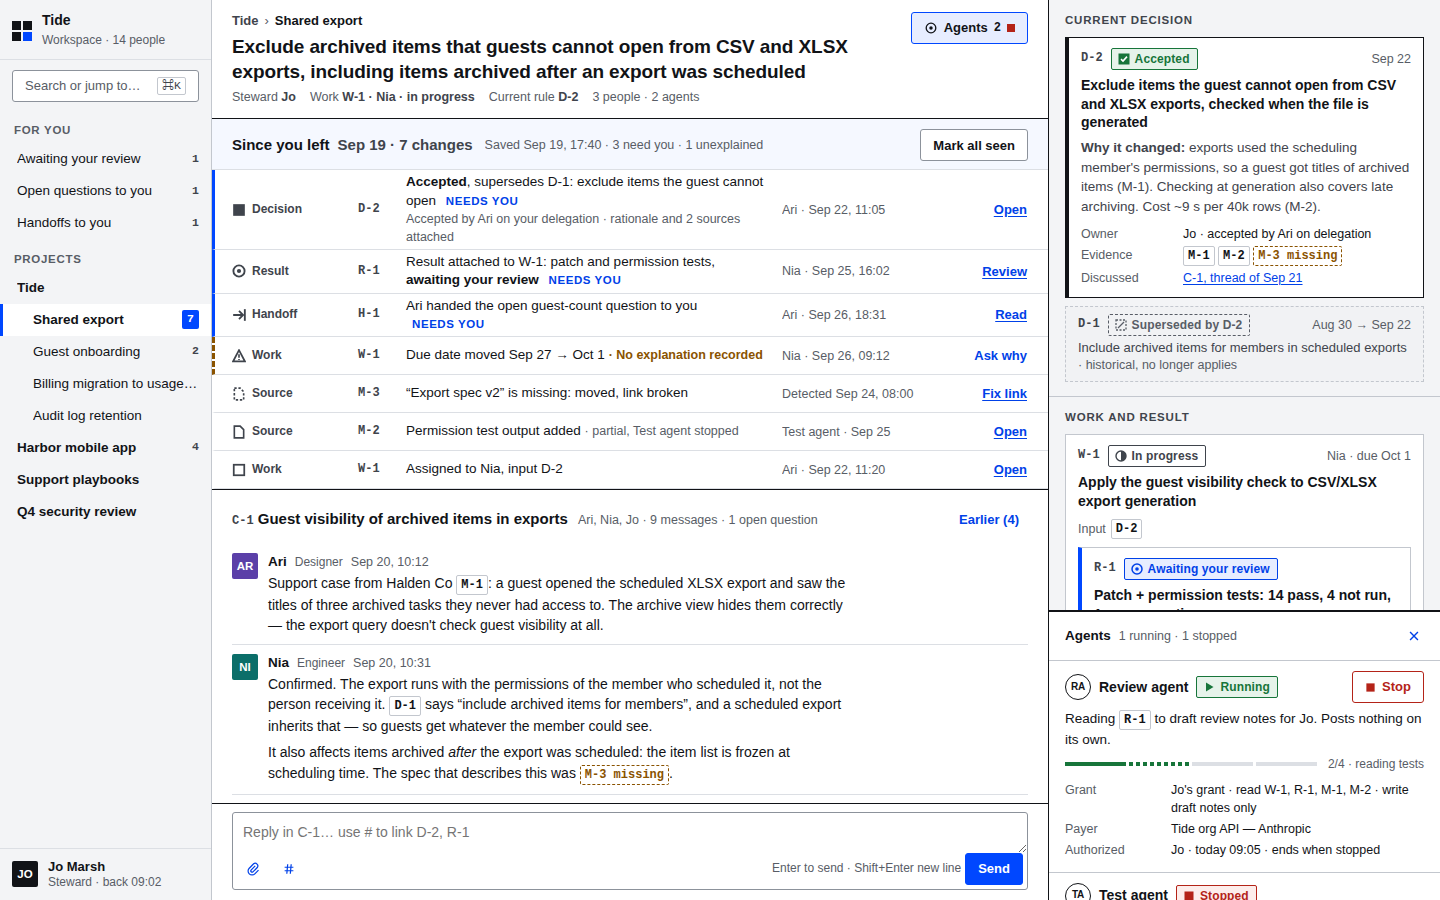
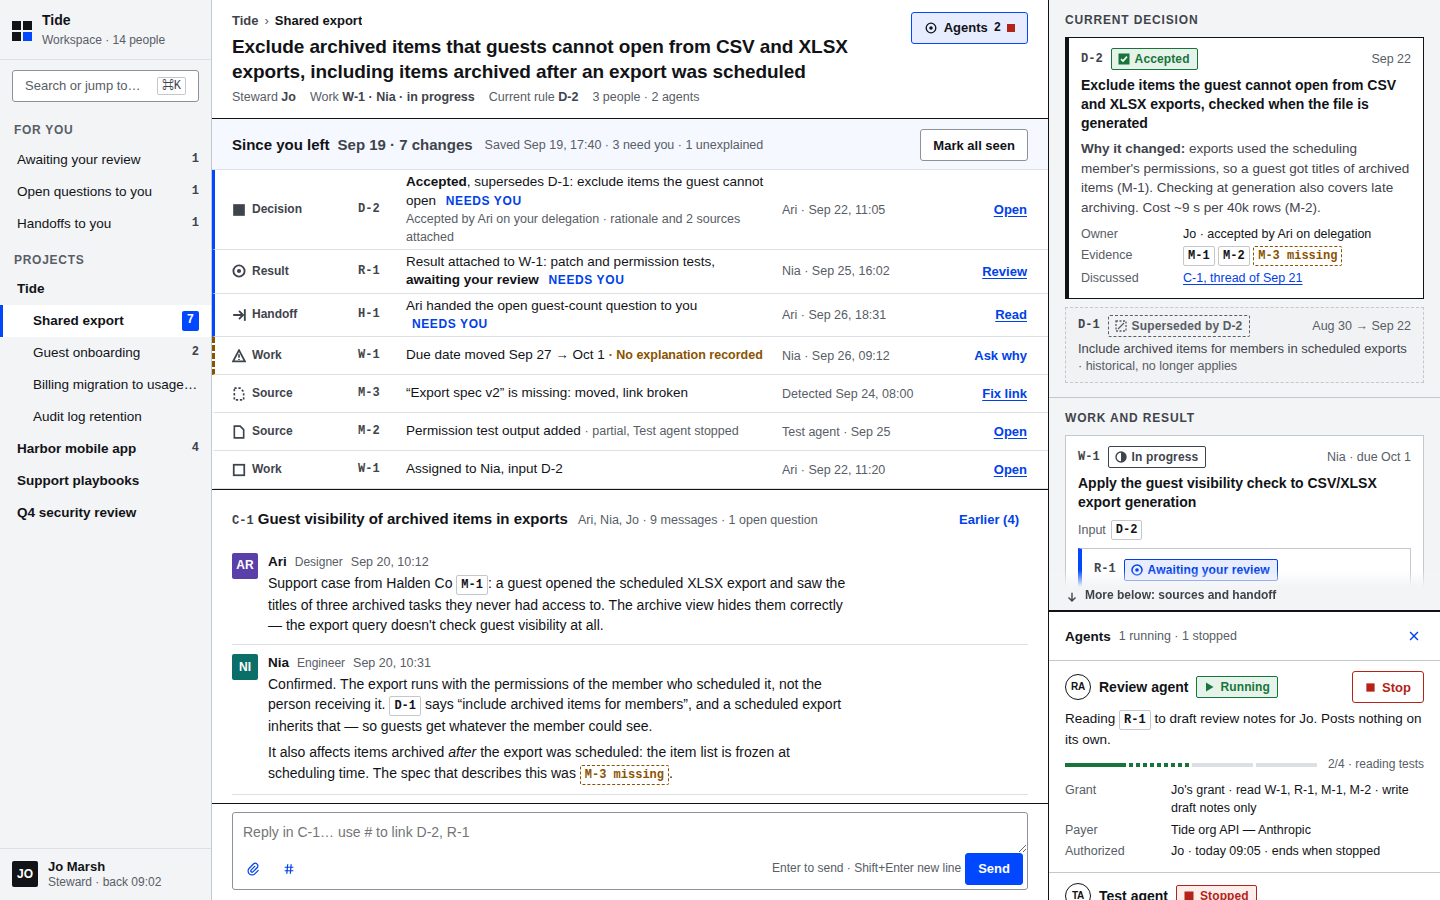
docs: compact O-003 agent panels, add context scroll cue and fix 360px wraps (#15)
Variant A: dock capped at 40% of the column, a sticky 'more below' cue on the
context column, a no-wrap breadcrumb and a short phone composer placeholder.
Variant B: compact agent rows with a grant disclosure; the panel starts closed
because each card already shows its agent state. Adds agents-open renders.

diff --git a/docs/design/proposals/o-003-ui-direction/variant-b-state-board.html b/docs/design/proposals/o-003-ui-direction/variant-b-state-board.html
@@ -389,6 +389,17 @@ svg.i { width: 14px; height: 14px; flex: none; vertical-align: -2px; fill: none;
 .arow .acts { display: flex; gap: 6px; flex-wrap: wrap; justify-content: flex-end; }
 .arow .nosw { margin: 2px 0 0 !important; font-size: 12.5px; font-weight: 600; display: flex; gap: 6px; align-items: center; }
 .arow.stopped { background: #FFF8F6; box-shadow: inset 4px 0 0 var(--status-danger); }
+/* Desktop and tablet: one compact row per agent; the full grant opens on demand so the board keeps its height. */
+.arow .gsum { margin: 0; font-size: 12.5px; color: var(--text-secondary); }
+.arow .gsum b { color: var(--text-primary); font-weight: 600; }
+@media (min-width: 901px) {
+  .arow { grid-template-columns: minmax(190px, .6fr) minmax(0, 1.5fr) minmax(0, 1.1fr) auto; padding-top: 5px; padding-bottom: 5px; }
+  .arow .what .on { display: inline; margin-left: 6px; }
+  .arow dl { display: none; grid-column: 2 / 4; grid-row: 2; margin-top: 2px; }
+  .arow.open dl { display: grid; }
+  .arow .acts { grid-column: 4; grid-row: 1; }
+}
+@media (max-width: 900px) { .arow .gsum, .arow .gtoggle { display: none; } }
 
 /* ---------- Detail pane ---------- */
 .detail { display: flex; flex-direction: column; min-width: 0; min-height: 0; background: var(--surface-raised); }
@@ -460,7 +471,8 @@ svg.i { width: 14px; height: 14px; flex: none; vertical-align: -2px; fill: none;
   .jump .lbl { display: none; }
   .arow { grid-template-columns: minmax(190px, .8fr) minmax(0, 1.4fr) auto; }
   .agents { max-height: 36%; }
-  .arow dl { grid-column: 2 / 3; }
+  .arow .gsum { grid-column: 2; }
+  .arow dl { grid-column: 2 / 3; grid-row: auto; }
   .arow .acts { grid-column: 3; grid-row: 1; }
   .arow .nosw { grid-column: 2 / 4; }
   .project .actions .btn:not(.btn-primary) .long { display: none; }
@@ -566,7 +578,7 @@ svg.i { width: 14px; height: 14px; flex: none; vertical-align: -2px; fill: none;
     </nav>
     <span class="spacer"></span>
     <button class="btn jump" type="button" aria-label="Jump to object or person (Command K)"><span class="lbl">Jump to object or person</span><kbd>⌘K</kbd></button>
-    <button class="btn agents-toggle" type="button" aria-expanded="true" aria-controls="agents">
+    <button class="btn agents-toggle" type="button" aria-expanded="false" aria-controls="agents">
       <span class="short" aria-hidden="true">Agents</span><span class="dot" aria-hidden="true"></span><span class="lbl">Agents · 1 running ·</span>
       <span class="sq" aria-hidden="true"></span><span class="lbl">1 stopped</span>
       <span class="sr-only">2 agents: 1 running, 1 stopped</span>
@@ -771,7 +783,7 @@ svg.i { width: 14px; height: 14px; flex: none; vertical-align: -2px; fill: none;
       </div>
 
       <!-- ================= AGENTS PANEL ================= -->
-      <section class="agents" id="agents" aria-labelledby="agents-title">
+      <section class="agents" id="agents" aria-labelledby="agents-title" hidden>
         <div class="agents-h">
           <h2 id="agents-title">Agents on this project</h2>
           <span class="meta">2 · every action is logged on the object it touches · nothing runs without a grant</span>
@@ -781,22 +793,24 @@ svg.i { width: 14px; height: 14px; flex: none; vertical-align: -2px; fill: none;
           <li class="arow">
             <div class="who"><span class="avatar bot" aria-hidden="true">RA</span><div><strong>Review agent</strong><span class="state-line"><span class="run-dot" aria-hidden="true" style="margin-top:0"></span>Running · 4 min</span></div></div>
             <div class="what">Reading sample XLSX (2 of 3 files), checking hidden rows against D-2. No edits, no posting in C-1.<span class="on">on <button class="link-chip" type="button" data-select="R-1">R-1</button> · started 09:10</span></div>
-            <dl>
+            <p class="gsum"><b>Jo's grant</b> · read-only, comments on R-1 · Tide org API</p>
+            <dl id="grant-ra">
               <dt>Grant</dt><dd>Read R-1, W-1, D-2, M-1, M-2 · comment on R-1 only</dd>
               <dt>Payer</dt><dd>Tide org API — Anthropic</dd>
               <dt>Authorized</dt><dd>by Jo · Sep 18, valid until Sep 30</dd>
             </dl>
-            <div class="acts"><button class="btn btn-sm btn-danger" type="button"><svg class="i" aria-hidden="true"><use href="#i-stop"/></svg>Stop</button></div>
+            <div class="acts"><button class="btn btn-sm gtoggle" type="button" aria-expanded="false" aria-controls="grant-ra">Grant</button><button class="btn btn-sm btn-danger" type="button"><svg class="i" aria-hidden="true"><use href="#i-stop"/></svg>Stop</button></div>
           </li>
           <li class="arow stopped">
             <div class="who"><span class="avatar bot" aria-hidden="true">TA</span><div><strong>Test agent</strong><span class="state-line stopped"><span class="stop-sq" aria-hidden="true" style="margin-top:0"></span>Stopped — Provider limit reached</span></div></div>
             <div class="what">9 of 16 permission cases run. Partial output kept as a draft on W-1.<span class="on">on <button class="link-chip" type="button" data-select="W-1">W-1</button> · stopped Sep 26, 14:12</span><p class="nosw" style="margin:0"><svg class="i" aria-hidden="true"><use href="#i-alert"/></svg>No automatic switch to another paid source.</p></div>
-            <dl>
+            <p class="gsum"><b>Nia's grant</b> · tests and a draft on W-1 · Tide org API, limit reached</p>
+            <dl id="grant-ta">
               <dt>Grant</dt><dd>Run tests on W-1 branch · write draft on W-1</dd>
               <dt>Payer</dt><dd>Tide org API — Anthropic (limit reached)</dd>
               <dt>Authorized</dt><dd>by Nia · Sep 22</dd>
             </dl>
-            <div class="acts"><button class="btn btn-sm" type="button" data-select="W-1">Continue manually</button><button class="btn btn-sm" type="button">Resume later</button></div>
+            <div class="acts"><button class="btn btn-sm gtoggle" type="button" aria-expanded="false" aria-controls="grant-ta">Grant</button><button class="btn btn-sm" type="button" data-select="W-1">Continue manually</button><button class="btn btn-sm" type="button">Resume later</button></div>
           </li>
         </ul>
       </section>
@@ -1014,6 +1028,8 @@ svg.i { width: 14px; height: 14px; flex: none; vertical-align: -2px; fill: none;
     var f = e.target.closest("[data-filter]");
     if (f && f.classList.contains("chip")) { setFilter(f); return; }
     if (e.target.closest(".agents-toggle")) { toggleAgents(); return; }
+    var gt = e.target.closest(".gtoggle");
+    if (gt) { var row = gt.closest(".arow"); var on = !row.classList.contains("open"); row.classList.toggle("open", on); gt.setAttribute("aria-expanded", String(on)); return; }
     if (e.target.closest("[data-close-agents]")) { toggleAgents(false); document.querySelector(".agents-toggle").focus(); return; }
     if (e.target.closest("[data-retry]")) {
       var m = document.getElementById("failed-msg");
@@ -1073,6 +1089,7 @@ svg.i { width: 14px; height: 14px; flex: none; vertical-align: -2px; fill: none;
   select("D-2", { initial: true });
   if (phoneMQ.matches) setView("outline");
   if (location.hash === "#sheet" && sheetMQ.matches) openSheet();
+  if (location.hash === "#agents") toggleAgents(true);
 })();
 </script>
 </body>

diff --git a/docs/design/proposals/o-003-ui-direction/variant-a-return-ledger.html b/docs/design/proposals/o-003-ui-direction/variant-a-return-ledger.html
@@ -192,7 +192,8 @@ svg.i { width: 14px; height: 14px; flex: none; vertical-align: -2px; }
 /* ---------- Main ---------- */
 .main { grid-area: main; display: flex; flex-direction: column; min-width: 0; min-height: 0; background: var(--surface-base); }
 .view-head { padding: 12px 20px 12px; border-bottom: 1px solid var(--line-strong); display: grid; grid-template-columns: minmax(0,1fr) auto; column-gap: 16px; row-gap: 4px; align-items: start; }
-.crumbs { display: flex; align-items: center; gap: 6px; font-size: 13px; color: var(--text-muted); grid-column: 1; }
+.crumbs { display: flex; align-items: center; gap: 6px; font-size: 13px; color: var(--text-muted); grid-column: 1; min-width: 0; white-space: nowrap; }
+.crumbs .here { overflow: hidden; text-overflow: ellipsis; min-width: 0; }
 .crumbs a { color: var(--text-secondary); text-decoration: none; font-weight: 600; }
 .crumbs a:hover { text-decoration: underline; }
 .crumbs .here { color: var(--text-primary); font-weight: 650; }
@@ -283,7 +284,10 @@ svg.i { width: 14px; height: 14px; flex: none; vertical-align: -2px; }
 /* ---------- Aside / context ---------- */
 .aside { grid-area: aside; display: flex; flex-direction: column; min-height: 0; background: var(--surface-canvas); border-left: 1px solid var(--line-strong); }
 .aside-head { display: none; }
-.ctx { flex: 1 1 auto; overflow-y: auto; min-height: 0; }
+.ctx { flex: 1 1 auto; overflow-y: auto; min-height: 0; position: relative; }
+/* Scroll cue: shown while context continues below the visible part of the column. */
+.more-cue { position: sticky; bottom: 0; display: none; align-items: flex-end; gap: 6px; height: 40px; margin-top: -40px; padding: 0 16px 6px; pointer-events: none; font-size: 12px; font-weight: 650; color: var(--text-secondary); background: linear-gradient(to bottom, rgba(243,244,246,0), var(--surface-canvas) 42%); }
+.ctx.has-more .more-cue { display: flex; }
 .sec { padding: 12px 16px 14px; border-bottom: 1px solid var(--line-default); }
 .sec-h { display: flex; align-items: center; gap: 8px; margin-bottom: 8px; }
 .sec-h h2 { font-size: 12px; font-weight: 750; letter-spacing: 0.07em; text-transform: uppercase; color: var(--text-secondary); }
@@ -320,7 +324,7 @@ svg.i { width: 14px; height: 14px; flex: none; vertical-align: -2px; }
 .restricted .txt b { color: var(--text-primary); display: block; font-size: 13.5px; }
 
 /* ---------- Agent dock ---------- */
-.dock { display: none; flex: 0 1 auto; max-height: 50%; min-height: 0; flex-direction: column; border-top: 2px solid var(--line-strong); background: var(--surface-base); }
+.dock { display: none; flex: 0 1 auto; max-height: 40%; min-height: 0; flex-direction: column; border-top: 2px solid var(--line-strong); background: var(--surface-base); }
 body.agents-open .dock { display: flex; }
 .dock-head { display: flex; align-items: center; gap: 8px; padding: 8px 10px 8px 16px; border-bottom: 1px solid var(--line-default); }
 .dock-head h2 { font-size: 13.5px; font-weight: 700; }
@@ -745,6 +749,7 @@ body.agents-open .dock { display: flex; }
           </li>
         </ul>
       </section>
+      <div class="more-cue" aria-hidden="true"><svg class="i" viewBox="0 0 16 16"><path d="M8 3v9M4 8.5l4 4 4-4" stroke="currentColor" stroke-width="1.6" fill="none"/></svg>More below: sources and handoff</div>
     </div>
 
     <!-- Agent dock -->
@@ -816,6 +821,7 @@ body.agents-open .dock { display: flex; }
     var rail = document.getElementById('rail'), aside = document.getElementById('aside');
     rail.toggleAttribute('inert', railDrawer() && !body.classList.contains('nav-open'));
     aside.toggleAttribute('inert', narrow() && !body.classList.contains('ctx-open'));
+    if (ctx) cue();
   }
   function open(k, trigger) {
     lastTrigger = trigger || document.activeElement;
@@ -881,10 +887,19 @@ body.agents-open .dock { display: flex; }
     if (h === '#nav') { body.classList.add('nav-open'); body.classList.remove('ctx-open'); }
     sync();
   }
+  var ctx = document.querySelector('.ctx');
+  function cue() { ctx.classList.toggle('has-more', !narrow() && ctx.scrollHeight - ctx.scrollTop - ctx.clientHeight > 24); }
+  ctx.addEventListener('scroll', cue, { passive: true });
+  window.addEventListener('resize', cue);
+  var input = document.getElementById('composer-input');
+  function placeholder() { input.placeholder = window.matchMedia('(max-width: 600px)').matches ? 'Reply in C-1\u2026' : 'Reply in C-1\u2026 use # to link D-2, R-1'; }
+  window.matchMedia('(max-width: 600px)').addEventListener('change', placeholder);
+  placeholder();
   window.addEventListener('hashchange', fromHash);
   window.matchMedia('(max-width: 900px)').addEventListener('change', sync);
   window.matchMedia('(max-width: 1120px)').addEventListener('change', sync);
   fromHash();
+  cue();
 })();
 </script>
 </body>
